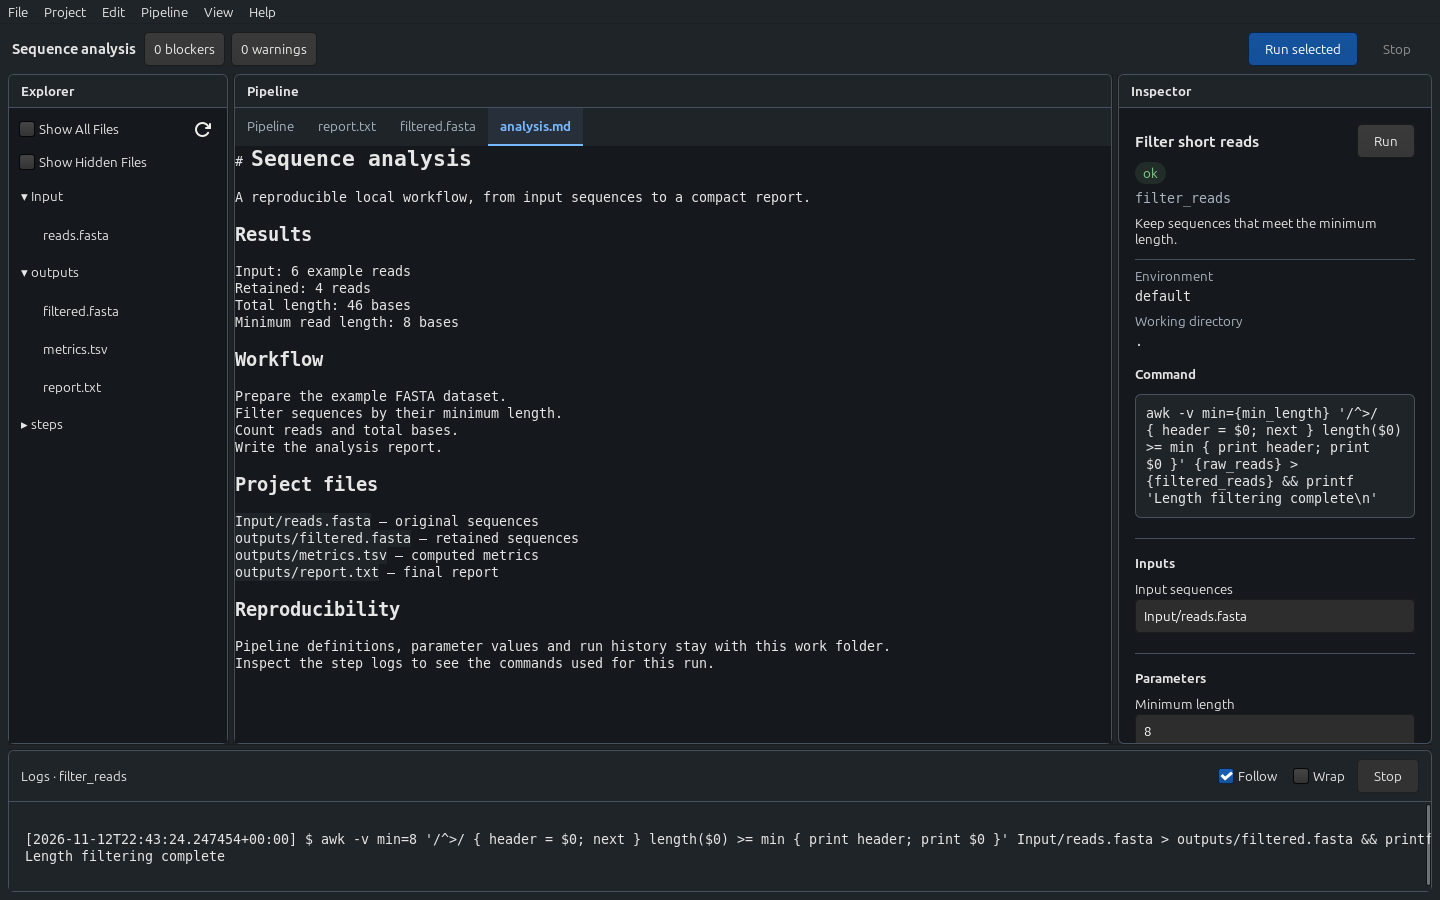
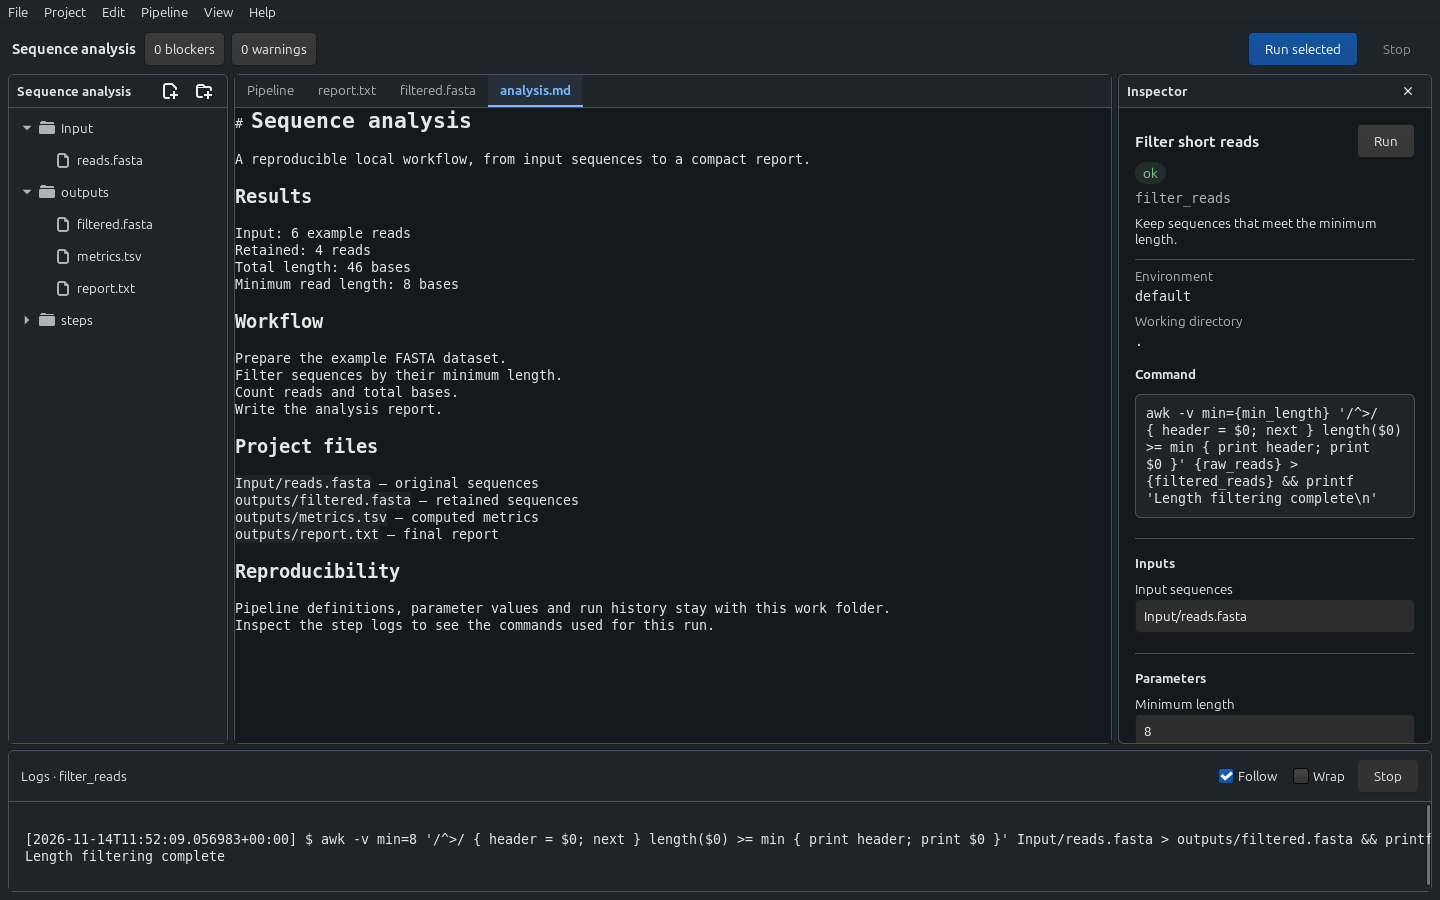
chore: prepare release 0.3.1

diff --git a/ui/src/readme_capture.rs b/ui/src/readme_capture.rs
@@ -56,6 +56,14 @@ fn open_document(cmds: &AppCmds, path: &Path) {
     }
 }
 
+fn explorer_folder(cmds: &AppCmds, name: &str) -> Option<gtk4::Button> {
+    widgets(&cmds.explorer.as_ref()?.widget()).into_iter()
+        .filter_map(|w| w.downcast::<gtk4::Button>().ok())
+        .find(|button| button.has_css_class("opm-explorer-row")
+            && widgets(button.upcast_ref()).into_iter().any(|widget|
+                widget.downcast::<gtk4::Label>().is_ok_and(|label| label.text() == name)))
+}
+
 #[test]
 #[ignore = "requires a display, isolated OPM_QA_DIR/config/libraries, and POSIX awk"]
 fn readme_screenshots() {
@@ -193,26 +201,8 @@ fn readme_screenshots() {
     open_document(&work, &root.join("outputs/report.txt"));
     work.show_view(CenterView::Pipeline);
     for folder in ["Input", "outputs"] {
-        wait_for(|| {
-            widgets(&work.explorer.as_ref().unwrap().widget())
-                .iter()
-                .any(|w| {
-                    w.downcast_ref::<gtk4::Button>()
-                        .and_then(|b| b.child())
-                        .and_downcast::<gtk4::Label>()
-                        .is_some_and(|l| l.text() == format!("▸ {folder}"))
-                })
-        });
-        let button = widgets(&work.explorer.as_ref().unwrap().widget())
-            .into_iter()
-            .filter_map(|w| w.downcast::<gtk4::Button>().ok())
-            .find(|b| {
-                b.child()
-                    .and_downcast::<gtk4::Label>()
-                    .is_some_and(|l| l.text() == format!("▸ {folder}"))
-            })
-            .unwrap();
-        button.emit_clicked();
+        wait_for(|| explorer_folder(&work, folder).is_some());
+        explorer_folder(&work, folder).unwrap().emit_clicked();
         settle();
     }
     capture(&work.window, &output.join("workspace.png"));

diff --git a/CHANGELOG.md b/CHANGELOG.md
@@ -6,14 +6,23 @@ The format follows Keep a Changelog-style sections, and the project uses semanti
 
 ## Unreleased
 
+## 0.3.1 - 2026-11-14
+
+### Added
+
+- Collapsible inspector with a header close button and View / Ctrl+Shift+I toggle. Selecting a card reopens it at its previous width; background refresh leaves it hidden.
+- Plain Toggle Logs / Console action in View, with Ctrl+J, matching Toggle Explorer without a checkbox or toolbar button. Hiding the pane retains its height, contents and reading settings while execution and logging continue.
+
 ### Changed
 
-- Add a collapsible inspector with a header close button and View / Ctrl+Shift+I toggle. Selecting a card reopens it at its previous width, while background refresh leaves it hidden.
-- Cards can move in both Design and Work, including during execution. Work positions save immediately to its embedded `run.json` copy without modifying the library or another work folder.
-- Add a plain Toggle Logs / Console action to View, with Ctrl+J, matching Toggle Explorer without a checkbox or toolbar button. Hiding the pane retains its size and contents and does not stop execution or logging.
-- Stop exposing an automatic untitled document. The first file reuses the internal blank buffer; explicit New and modified drafts remain separate. Closing the last file in Work returns to the pipeline.
-- Move pipeline, document and image tabs into the center pane header, replacing the repeated Pipeline/Workspace title while preserving pane widths and split positions.
+- Move pipeline, document and image tabs into the center pane header, replacing the repeated Pipeline/Workspace title while preserving pane widths and split positions. Narrow windows scroll to reveal the active tab without changing editor focus.
 - Refine the file navigator with a compact folder header, native creation actions, symbolic chevrons/icons and a subtle active-document highlight. Show All Files, Show Hidden Files and Refresh Files now live in View; filters remain independent per window and survive refresh.
+- Refresh the real GTK screenshot gallery and add reproducible checks for navigation, pane toggles, focus, small windows, high contrast and large text.
+
+### Fixed
+
+- Allow card movement in both Design and Work, including during execution. Work positions save immediately to its embedded `run.json` definition copy without modifying the library, another work folder or step execution state.
+- Avoid exposing an automatic untitled document. The first file reuses the internal blank buffer; explicit New and edited drafts retain their own tabs and undo/redo history. Closing the final file in Work returns to Pipeline.
 
 ## 0.3.0 - 2026-11-12
 

diff --git a/docs/screenshots/README.md b/docs/screenshots/README.md
@@ -1,4 +1,4 @@
-# README gallery — Open Pipeline Manager 0.3.0
+# README gallery — Open Pipeline Manager 0.3.1
 
 These PNGs are captures of mapped native GTK windows on Linux/X11 with GTK
 4.14.5 and the Cairo renderer. They have not been repainted or composited into
@@ -8,7 +8,7 @@ select light or dark captures using GitHub's color preference.
 | Image | View |
 |---|---|
 | [Workspace light](workspace-light.png) / [dark](workspace-dark.png) | Four completed steps, generated files, inspector and actual run output |
-| [Start page light](welcome-light.png) / [dark](welcome-dark.png) | Pipeline and work-folder actions, recent work, version 0.3.0 |
+| [Start page light](welcome-light.png) / [dark](welcome-dark.png) | Pipeline and work-folder actions, recent work, version 0.3.1 |
 | [Empty start page](welcome-empty.png) / [800×600](welcome-small.png) | Fresh launch without recent work |
 | [Design](design-light.png) | Native library document, tool palette and connected graph |
 | [Configuration](configure-light.png) / [command](configure-command-light.png) | Actual step dialog, typed inputs, required values and numeric bounds |

diff --git a/README.md b/README.md
@@ -6,7 +6,7 @@
 
 A native desktop workbench for designing, validating, and running local pipelines.
 
-[![Version](https://img.shields.io/badge/version-0.3.0-1565c0?style=flat-square)](CHANGELOG.md)
+[![Version](https://img.shields.io/badge/version-0.3.1-1565c0?style=flat-square)](CHANGELOG.md)
 [![Rust](https://img.shields.io/badge/Rust-stable-000000?style=flat-square&logo=rust)](BUILDING.md)
 [![GTK4](https://img.shields.io/badge/GTK4-native_desktop-76548f?style=flat-square)](docs/UI_DESIGN.md)
 [![CI](https://github.com/ximocm/OpenPipelineManager/actions/workflows/ci.yml/badge.svg)](https://github.com/ximocm/OpenPipelineManager/actions/workflows/ci.yml)

diff --git a/docs/qa/navigation.md b/docs/qa/navigation.md
@@ -1,7 +1,7 @@
 # Workspace navigation review — 2026-11-14
 
-Native GTK4/Cairo changes on `feat/explorer-navigation`, collected under
-Unreleased. No dependency, pipeline format or execution engine changes.
+Native GTK4/Cairo changes on `feat/explorer-navigation`, included in
+0.3.1. No dependency, pipeline format or execution engine changes.
 
 ## Design and scope
 
